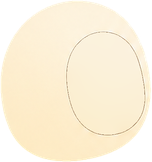
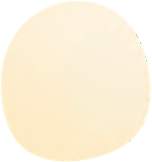
Completion celebration, Locked button feedback, round Orange eyes, running-card priority, Stats zero bars
Claude-Session: https://claude.ai/code/session_01CciFjP6XdJJRsGLwyBgEnd

diff --git a/app/src/main/java/com/shortstop/app/MainActivity.kt b/app/src/main/java/com/shortstop/app/MainActivity.kt
@@ -110,6 +110,7 @@ class MainActivity : Activity() {
     private var exMode: TextView? = null
     private var setupStepper: SetupStepper? = null
     private var runningCard: View? = null
+    private var focusScroll: ScrollView? = null
     private var runRing: TimerDial? = null
     private var runInfo: TextView? = null
     private var runBreakBtn: TextView? = null
@@ -720,7 +721,21 @@ class MainActivity : Activity() {
             txt.textSize = dp(11).toFloat()
             for (i in 0 until n) {
                 val left = i * (bw + gap)
-                val h = maxOf(dp(4).toFloat(), values[i].toFloat() / top * usable * grow)
+                if (values[i] <= 0) {
+                    // An empty day is a quiet round pip on the baseline, not a bar: no heavy black dash, even for today.
+                    val d = minOf(bw, dp(10).toFloat())
+                    val cx = left + bw / 2f
+                    bar.color = pal.track
+                    c.drawRoundRect(cx - d / 2f, baseY - d, cx + d / 2f, baseY, d / 2f, d / 2f, bar)
+                    if (i == highlight) {
+                        bar.color = pal.ink; bar.alpha = 110
+                        c.drawCircle(cx, baseY - d / 2f, dp(2).toFloat(), bar); bar.alpha = 255
+                    }
+                    txt.color = pal.muted
+                    c.drawText(labels[i], left + bw / 2f, height - dp(7).toFloat(), txt)
+                    continue
+                }
+                val h = maxOf(dp(6).toFloat(), values[i].toFloat() / top * usable * grow)
                 bar.color = if (i == highlight) pal.ink else pal.track
                 rect.set(left, baseY - h, left + bw, baseY)
                 c.drawRoundRect(rect, dp(6).toFloat(), dp(6).toFloat(), bar)
@@ -1066,7 +1081,7 @@ class MainActivity : Activity() {
         // blur what is behind the sheet (the real views, not the toast or sparkle layers), then dim it only gently
         clearBlurEffects()
         val blurTargets = (0 until rootFrame.childCount).map { rootFrame.getChildAt(it) }
-            .filter { v -> v.tag != "closing-sheet" && v.tag != "toast" }
+            .filter { v -> v.tag != "closing-sheet" && v.tag != "toast" && v.tag != "confetti" }
             .filter { v -> (v as Any) !== (toaster as Any?) && (v as Any) !== (spark as Any?) && (v as Any) !== (sheetLayer as Any?) }
         val scrim = SheetBackdrop(this, blurTargets, 0x59140A04, rootFrame).apply {
             setOnClickListener { closeSheet() }
@@ -1239,7 +1254,10 @@ class MainActivity : Activity() {
         setupStepper?.sync(booleanArrayOf(ack || on, on, batt))
         val sc = setupCard
         if (sc != null) {
-            if (on && batt) {
+            if (Store.focusRunning(this)) {
+                // While a session runs the timer owns the top of the page; incomplete setup waits until the session ends.
+                if (sc.visibility != View.GONE) sc.visibility = View.GONE
+            } else if (on && batt) {
                 // the stepper plays its "all set" moment and collapses the card itself
                 if (sc.visibility != View.VISIBLE || !sc.isLaidOut) sc.visibility = View.GONE
             } else if (sc.visibility != View.VISIBLE) {
@@ -1376,7 +1394,7 @@ class MainActivity : Activity() {
         val btns = LinearLayout(this).apply { orientation = LinearLayout.HORIZONTAL }
         val breakBtn = pill("Take a break", false) { onBreakClick() }
         val endBtn = FuseButton(this, pal, fonts, "End session", "Undo", "Ended", 4000L,
-            { if (Store.frozen(this)) { free(); onUltraEndAttempt(); false } else true }) {
+            { if (Store.frozen(this)) { free(); runEndBtn?.refuse(); onUltraEndAttempt(); false } else true }) {
             commitEndSession()
         }
         endBtn.onArm = { onEndArmed() }
@@ -1484,7 +1502,8 @@ class MainActivity : Activity() {
         statsWrap = wrap
         col.addView(wrap, lp(matchP, wrapC))
 
-        page.addView(scrollPage(col), lp(matchP, 0, 1f))
+        val focusSv = scrollPage(col); focusScroll = focusSv
+        page.addView(focusSv, lp(matchP, 0, 1f))
 
         // Start bar
         val bar = LinearLayout(this).apply {
@@ -1732,6 +1751,11 @@ class MainActivity : Activity() {
     private fun updateRunning() {
         Store.finalizeFocus(this)
         val running = Store.focusRunning(this)
+        if (running != (runningCard?.visibility == View.VISIBLE)) {
+            // The running card and the idle page swap places: start from the top so the timer (or, after a session, the
+            // companion and the completion) is on screen instead of wherever the page was scrolled to.
+            focusScroll?.post { focusScroll?.smoothScrollTo(0, 0) }
+        }
         runningCard?.visibility = if (running) View.VISIBLE else View.GONE
         statsWrap?.visibility = if (running) View.GONE else View.VISIBLE
         startBar?.visibility = if (running) View.GONE else View.VISIBLE
@@ -1772,8 +1796,10 @@ class MainActivity : Activity() {
                 b.text = if (onBreak) "End break" else "Take a break"
             }
             runEndBtn?.let { b ->
-                b.text = if (Store.frozen(this)) "Locked" else "End session"
-                b.alpha = if (Store.frozen(this)) 0.5f else 1f
+                val fz = Store.frozen(this)
+                b.text = if (fz) "Locked" else "End session"
+                b.locked = fz
+                b.alpha = if (fz) 0.78f else 1f
             }
             runLattice?.running = !onBreak
             calmOrange?.let { c ->
@@ -1893,7 +1919,19 @@ class MainActivity : Activity() {
         box.addView(btns, lp(matchP, wrapC))
         // Victory first, then the summary once the celebration has finished (full-size Orange 4.2 s, small one about 2.6 s).
         // A session that did not complete has no celebration, so its summary shows straight away.
-        val showSummary = Runnable { if (!isFinishing && !isDestroyed) showSheet("Session complete", box) }
+        val showSummary = Runnable {
+            if (isFinishing || isDestroyed) return@Runnable
+            showSheet("Session complete", box)
+            if (last.done) {
+                // The card settles in after the sheet, and a small confetti burst plays once above everything.
+                card.alpha = 0f; card.scaleX = 0.94f; card.scaleY = 0.94f; card.translationY = dp(14).toFloat()
+                card.animate().alpha(1f).scaleX(1f).scaleY(1f).translationY(0f).setStartDelay(180).setDuration(560)
+                    .setInterpolator(SpringInterpolator(14f, 0.8f, 0.9f)).start()
+                val burst = ConfettiBurst(this)
+                rootFrame.addView(burst, FrameLayout.LayoutParams(matchP, matchP))
+                burst.post { burst.start() }
+            }
+        }
         if (last.done) ui.postDelayed(showSummary, if (fullSize) 4300L else 2600L) else showSummary.run()
     }
 

diff --git a/app/src/main/java/com/shortstop/app/Fx2.kt b/app/src/main/java/com/shortstop/app/Fx2.kt
@@ -518,10 +518,64 @@ class FuseButton(
     var text: String = label
         set(v) {
             if (field != v) {
+                // A label that changes while idle (End session <-> Locked) cross-fades instead of snapping.
+                if (state == 0 && isAttachedToWindow && isLaidOut) {
+                    oldLabel = field
+                    swapAnim?.cancel()
+                    swap = 0f
+                    swapAnim = ValueAnimator.ofFloat(0f, 1f).apply {
+                        duration = 240
+                        addUpdateListener { swap = it.animatedValue as Float; invalidate() }
+                        start()
+                    }
+                }
                 field = v
                 if (state == 0) { invalidate(); requestLayout() }
             }
         }
+    /** True while the real protection state keeps this button from ending the session: draws a padlock that closes/opens. */
+    var locked: Boolean = false
+        set(v) {
+            if (field == v) return
+            field = v
+            lockAnim?.cancel()
+            if (isAttachedToWindow && isLaidOut) {
+                lockAnim = ValueAnimator.ofFloat(lockT, if (v) 1f else 0f).apply {
+                    duration = 320
+                    interpolator = android.view.animation.DecelerateInterpolator(1.6f)
+                    addUpdateListener { lockT = it.animatedValue as Float; invalidate() }
+                    start()
+                }
+            } else { lockT = if (v) 1f else 0f }
+            invalidate()
+        }
+    private var lockT = 0f
+    private var lockAnim: ValueAnimator? = null
+    private var shakeAnim: ValueAnimator? = null
+
+    /** Feedback for a refused press while locked: a short damped shake and a firm haptic tick. The state does not change. */
+    fun refuse() {
+        performHapticFeedback(if (android.os.Build.VERSION.SDK_INT >= 30) HapticFeedbackConstants.REJECT else HapticFeedbackConstants.LONG_PRESS)
+        shakeAnim?.cancel()
+        val amp = context.dpf(5f)
+        shakeAnim = ValueAnimator.ofFloat(0f, 1f).apply {
+            duration = 380
+            addUpdateListener {
+                val t = it.animatedValue as Float
+                translationX = (Math.sin(t * 3.0 * 2 * Math.PI) * (1f - t) * amp).toFloat()
+            }
+            onFinish { translationX = 0f }
+            start()
+        }
+        // the padlock bumps closed even if it was already drawn closed
+        lockAnim?.cancel()
+        lockAnim = ValueAnimator.ofFloat(0.55f, 1f).apply {
+            duration = 420
+            interpolator = android.view.animation.OvershootInterpolator(2.2f)
+            addUpdateListener { lockT = it.animatedValue as Float; invalidate() }
+            start()
+        }
+    }
     /** Called the moment the fuse is lit (button pressed and allowed), and when the user takes it back with Undo. */
     var onArm: (() -> Unit)? = null
     var onUndo: (() -> Unit)? = null
@@ -581,8 +635,39 @@ class FuseButton(
         pm.setPath(outline, false)
     }
 
-    private fun drawLabel(c: Canvas, s: String, a: Float, cx: Float, cy: Float, check: Boolean) {
+    private val lockPaint = Paint(Paint.ANTI_ALIAS_FLAG).apply { style = Paint.Style.STROKE; strokeCap = Paint.Cap.ROUND; strokeWidth = ctx.dpf(1.8f) }
+    private val lockFill = Paint(Paint.ANTI_ALIAS_FLAG)
+    private val lockRect = RectF()
+
+    private fun drawPadlock(c: Canvas, cx: Float, cy: Float, a: Float) {
+        val u = context.dpf(1f)
+        lockPaint.color = inkC; lockFill.color = inkC
+        lockPaint.alpha = (255 * a).toInt(); lockFill.alpha = (255 * a).toInt()
+        val bw = 11f * u; val bh = 8f * u
+        lockRect.set(cx - bw / 2, cy - bh / 2 + 2f * u, cx + bw / 2, cy + bh / 2 + 2f * u)
+        c.drawRoundRect(lockRect, 2f * u, 2f * u, lockFill)
+        // shackle: lifted and shifted aside when open (lockT = 0), seated when closed (lockT = 1)
+        val lift = (1f - lockT.coerceIn(0f, 1f)) * 3.5f * u
+        val r = bw * 0.27f
+        val top = lockRect.top - lift
+        val sh = Path().apply {
+            moveTo(cx - r, lockRect.top)
+            lineTo(cx - r, top - 1f * u)
+            arcTo(RectF(cx - r, top - r - 1f * u, cx + r, top + r - 1f * u), 180f, 180f)
+            lineTo(cx + r, if (lockT >= 0.99f) lockRect.top else top + 1f * u)
+        }
+        c.drawPath(sh, lockPaint)
+    }
+
+    private fun drawLabel(c: Canvas, s: String, a: Float, cx0: Float, cy: Float, check: Boolean) {
         if (a <= 0.01f) return
+        var cx = cx0
+        if (!check && locked && s == text && state == 0) {
+            val tw = txt.measureText(s)
+            val gap = context.dpf(18f)
+            drawPadlock(c, cx0 - tw / 2f - gap / 2f + context.dpf(2f), height / 2f, a)
+            cx = cx0 + gap / 2f
+        }
         txt.color = inkC
         txt.alpha = (255 * a).toInt()
         if (check) {
@@ -704,6 +789,9 @@ class FuseButton(
     override fun onDetachedFromWindow() {
         burn?.cancel()
         swapAnim?.cancel()
+        lockAnim?.cancel()
+        shakeAnim?.cancel()
+        translationX = 0f
         super.onDetachedFromWindow()
     }
 }

diff --git a/app/src/main/java/com/shortstop/app/Fx20.kt b/app/src/main/java/com/shortstop/app/Fx20.kt
@@ -1,0 +1,94 @@
+package com.shortstop.app
+
+import android.animation.Animator
+import android.animation.AnimatorListenerAdapter
+import android.animation.ValueAnimator
+import android.content.Context
+import android.graphics.Canvas
+import android.graphics.Paint
+import android.graphics.RectF
+import android.os.Handler
+import android.os.Looper
+import android.view.View
+import android.view.ViewGroup
+import android.view.animation.LinearInterpolator
+
+/**
+ * A short, restrained confetti burst for a finished focus session. Deterministic (no random per play), about forty
+ * small pieces in Orange's own palette, launched from just above the card, drifting down and fading out over
+ * [DURATION] ms. It never takes touches, so Share and Done underneath keep working, and it removes itself.
+ */
+class ConfettiBurst(ctx: Context) : View(ctx) {
+    private val paint = Paint(Paint.ANTI_ALIAS_FLAG)
+    private val rect = RectF()
+    private var t = 0f
+    private var anim: ValueAnimator? = null
+    private val handler = Handler(Looper.getMainLooper())
+
+    init { tag = "confetti"; isClickable = false; isFocusable = false; importantForAccessibility = IMPORTANT_FOR_ACCESSIBILITY_NO }
+
+    private fun h01(i: Int, salt: Int): Float {
+        var x = i * 374761393 + salt * 668265263
+        x = (x xor (x ushr 13)) * 1274126177
+        return ((x xor (x ushr 16)) and 0xFFFF) / 65535f
+    }
+
+    fun start() {
+        anim?.cancel()
+        anim = ValueAnimator.ofFloat(0f, 1f).apply {
+            duration = DURATION; interpolator = LinearInterpolator()
+            addUpdateListener { t = it.animatedValue as Float; invalidate() }
+            addListener(object : AnimatorListenerAdapter() {
+                override fun onAnimationEnd(a: Animator) { dismiss() }
+            })
+            start()
+        }
+    }
+
+    /** Removal is deferred so it can never run while the parent is still iterating its children. */
+    private fun dismiss() {
+        handler.post { (parent as? ViewGroup)?.removeView(this) }
+    }
+
+    override fun onDraw(c: Canvas) {
+        if (width == 0) return
+        val w = width.toFloat(); val hgt = height.toFloat(); val d = resources.displayMetrics.density
+        for (i in 0 until COUNT) {
+            // two launch points left and right of the card centre, angled outwards, then gravity and a slow sway
+            val side = if (i % 2 == 0) -1f else 1f
+            val delay = h01(i, 1) * 0.18f
+            val p = ((t - delay) / (1f - delay)).coerceIn(0f, 1f)
+            if (p <= 0f) continue
+            val speed = (0.45f + h01(i, 2) * 0.55f) * hgt * 0.62f
+            val ang = (0.25f + h01(i, 3) * 0.55f)                       // 0 = straight up, 1 = flat out
+            val vx = side * ang * speed * 0.9f
+            val vy = -(1f - ang * 0.55f) * speed
+            val g = hgt * 1.15f
+            val x0 = w * 0.5f + side * w * 0.10f
+            val y0 = hgt * 0.42f
+            val tt = p * 1.15f
+            val x = x0 + vx * tt + Math.sin((tt * 5f + h01(i, 4) * 6f).toDouble()).toFloat() * 6f * d
+            val y = y0 + vy * tt + 0.5f * g * tt * tt
+            val fade = if (p < 0.7f) 1f else (1f - (p - 0.7f) / 0.3f)
+            paint.color = COLORS[i % COLORS.size]
+            paint.alpha = (235 * fade).toInt().coerceIn(0, 255)
+            val s = (3.5f + h01(i, 5) * 3.5f) * d
+            c.save()
+            c.rotate(h01(i, 6) * 360f + p * (120f + h01(i, 7) * 240f), x, y)
+            if (i % 3 == 0) c.drawCircle(x, y, s * 0.55f, paint)
+            else { rect.set(x - s, y - s * 0.45f, x + s, y + s * 0.45f); c.drawRoundRect(rect, s * 0.2f, s * 0.2f, paint) }
+            c.restore()
+        }
+    }
+
+    override fun onDetachedFromWindow() {
+        anim?.cancel(); handler.removeCallbacksAndMessages(null)
+        super.onDetachedFromWindow()
+    }
+
+    companion object {
+        const val DURATION = 2300L
+        private const val COUNT = 44
+        private val COLORS = intArrayOf(0xFFFFA23A.toInt(), 0xFF8ED8A6.toInt(), 0xFFFFE08A.toInt(), 0xFFFF7A66.toInt())
+    }
+}

diff --git a/docs/BUG_TRACKER.md b/docs/BUG_TRACKER.md
@@ -1,0 +1,14 @@
+# Bug tracker (orange-rig)
+
+Status key: FIXED (code) = changed in code and reviewed statically; NEEDS PHONE = a person must look at it on a device.
+
+| # | Bug | Root cause | Fix | Status |
+|---|-----|------------|-----|--------|
+| 1 | Focus completion celebration not visible | Victory plays on the Focus-tab Orange, which sits at the top of the page; the page was still scrolled down from the running session, so the mascot was off screen. The summary card had no entrance of its own. | Page scrolls to the top when a session starts or ends; summary card settles in with a spring; a short confetti burst (`ConfettiBurst`, touch-transparent, plays once per `reacted_end`) runs over the sheet. Normal and Ultra Focus share the same completion path. | FIXED (code). NEEDS PHONE for look and feel |
+| 2 | Locked button gives no feedback | The refused press ran Orange's Rage but the button itself did nothing and was only dimmed. | `FuseButton.locked` draws a padlock that closes/opens with the real `Store.frozen` state, the label cross-fades, and a refused tap shakes the button with a reject haptic. State is never changed by the animation. | FIXED (code). NEEDS PHONE |
+| 3 | Orange normal eyes look compressed | The pupil art was a tall oval (79x103) and the eye whites carried a faint baked outline of it. | Pupils redrawn as true circles (88 px) with a round main highlight and a small second catch-light; baked outline removed from the whites. Layer positions and gaze maths unchanged, so Rage/Overload/Victory/Crying use the same rig. | FIXED (art). NEEDS PHONE for the other expressions |
+| 4 | Setup card pushes the running timer below the fold | Setup card stays visible during a session | Hidden while a session runs, returns afterwards | FIXED (code) |
+| 5 | Page stays scrolled after a session | No scroll reset | See 1 | FIXED (code) |
+| 6 | Stats zero-day bars look like heavy black dashes | 4 dp bar in the ink colour for today | Zero days are a small neutral pip; today gets a faint dot | FIXED (code) |
+
+Checklist to confirm on a phone: timer reaches zero (normal, Ultra); tap Locked (shake, padlock, Rage); idle eyes round; Rage, Overload, Victory, Crying unchanged in character.
